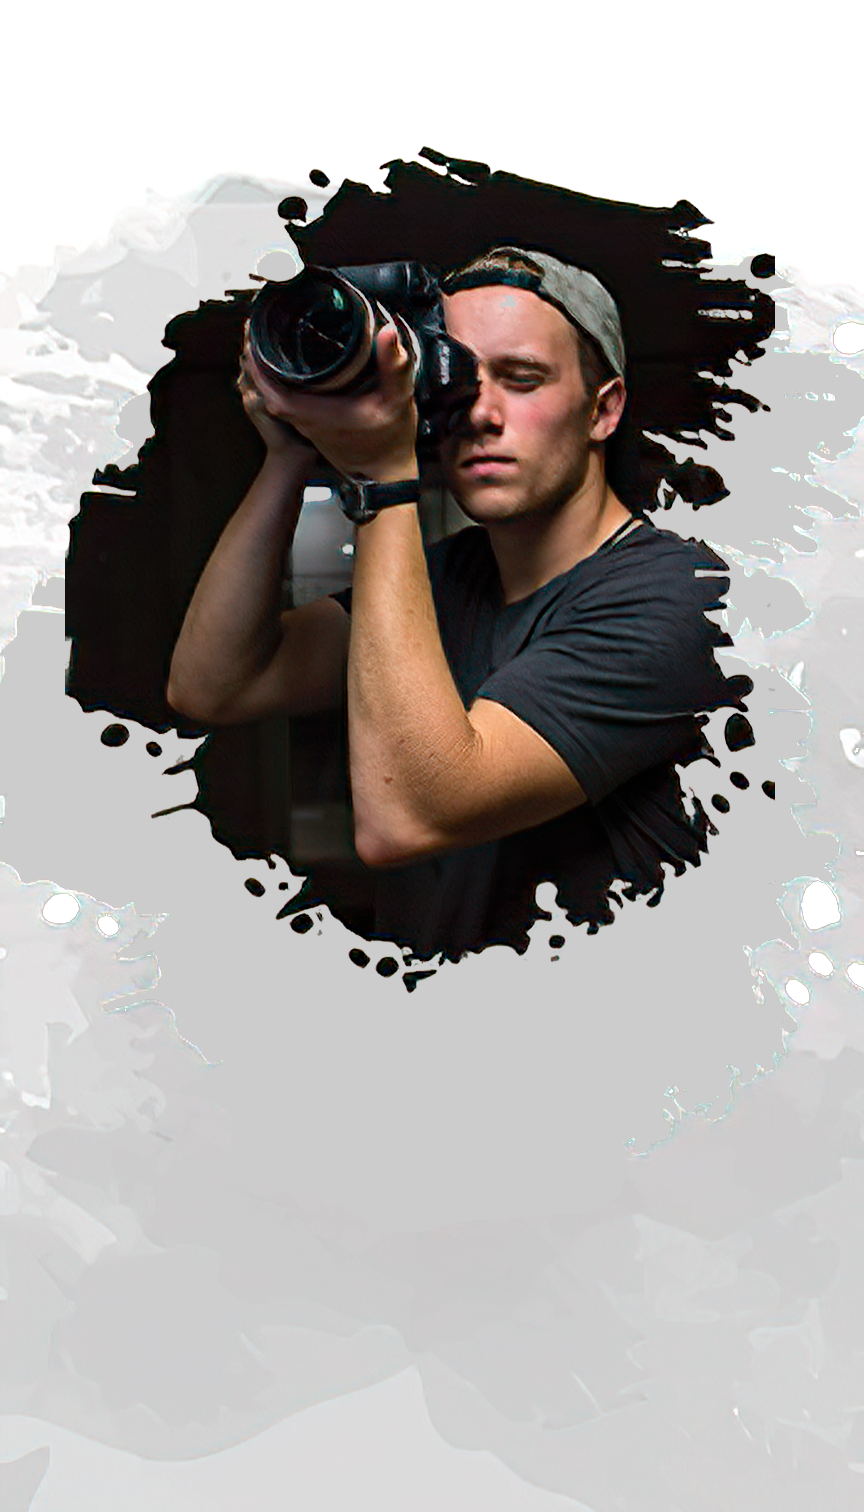
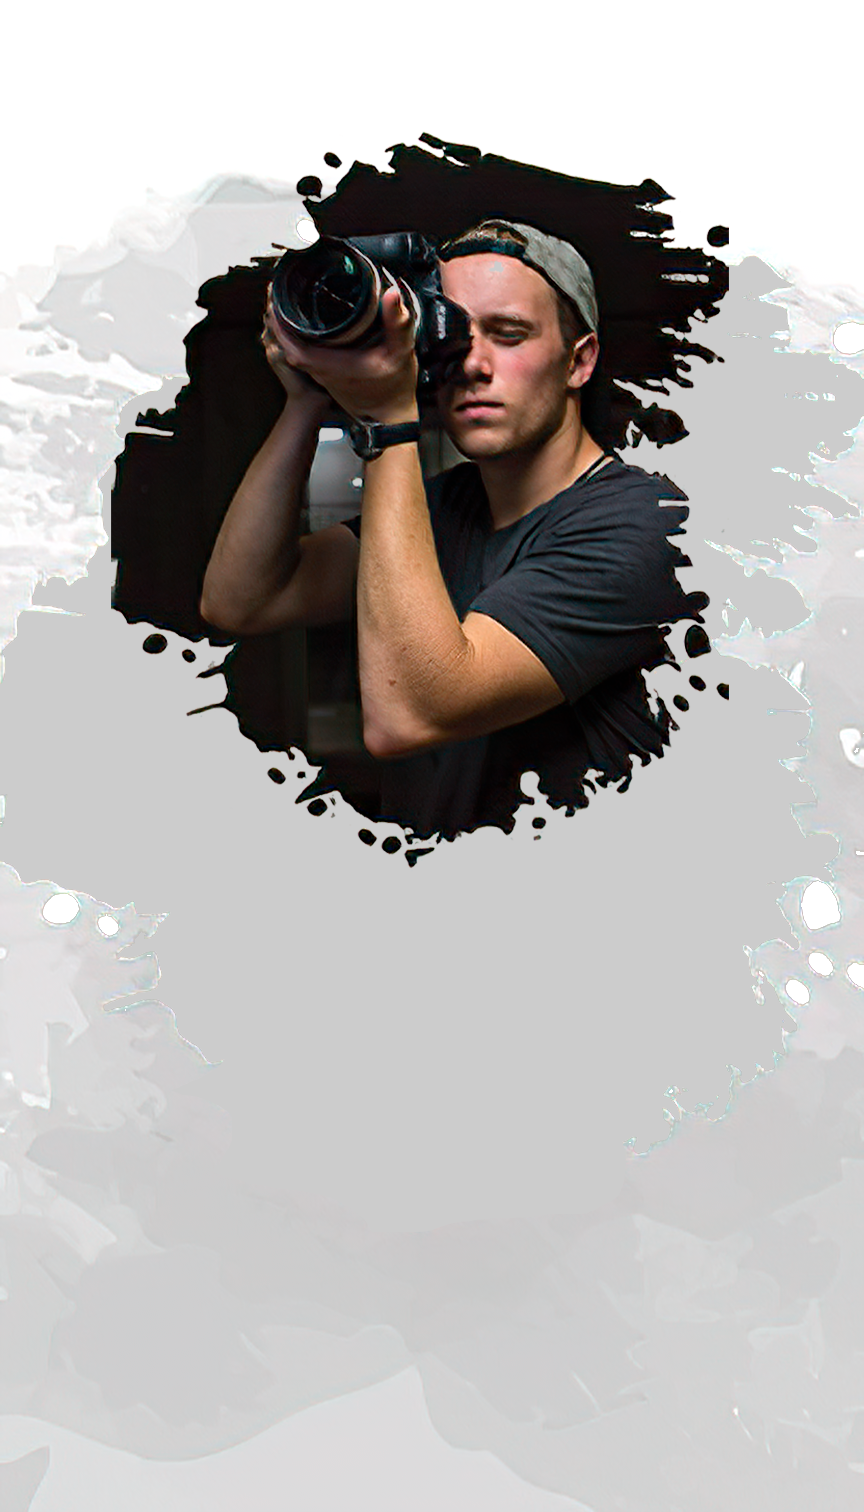
agregado enlace

Changed region(s): [[0.0625, 0.0933, 0.9062, 0.6528]]

diff --git a/index.html b/index.html
@@ -3,7 +3,7 @@
   <head>
     <meta charset="UTF-8" />
     <meta name="viewport" content="width=device-width, initial-scale=1.0" />
-    <title>tarjeta 001</title>
+    <title>tarjeta 005</title>
     <link
       rel="stylesheet"
       href="https://necolas.github.io/normalize.css/8.0.1/normalize.css"
@@ -95,7 +95,7 @@
       <section class="botones">
         <a href="#" class="boton_compartir">Compartir</a>
         <a
-          href="https://drive.google.com/file/d/1UUhyFTXD8Ue5y8kOy1QZm7sD5kpDdUSa/view?usp=drive_link"
+          href="https://drive.google.com/file/d/1q1IqTtUqOCEJuxNT-STZcFBnXhxrsN0q/view?usp=sharing"
           class="boton_guardar"
           >Guardar contacto</a
         >

diff --git a/css/styles.css b/css/styles.css
@@ -1,7 +1,7 @@
 /* variables */
 
 :root {
-    --color-principal: #b8a48a;
+    --color-principal: #cbcbcb;
     --color-secundario: #81817f;
     --color-terciario: #fff;
     --color-oscuro: #252525;
@@ -59,7 +59,7 @@ body {
     flex-direction: column;
     justify-content:center;
     align-items: center;
-    margin-top: 45px;
+    margin-top: 30px;
 }
 .first_row {
     margin-top: 8px;
